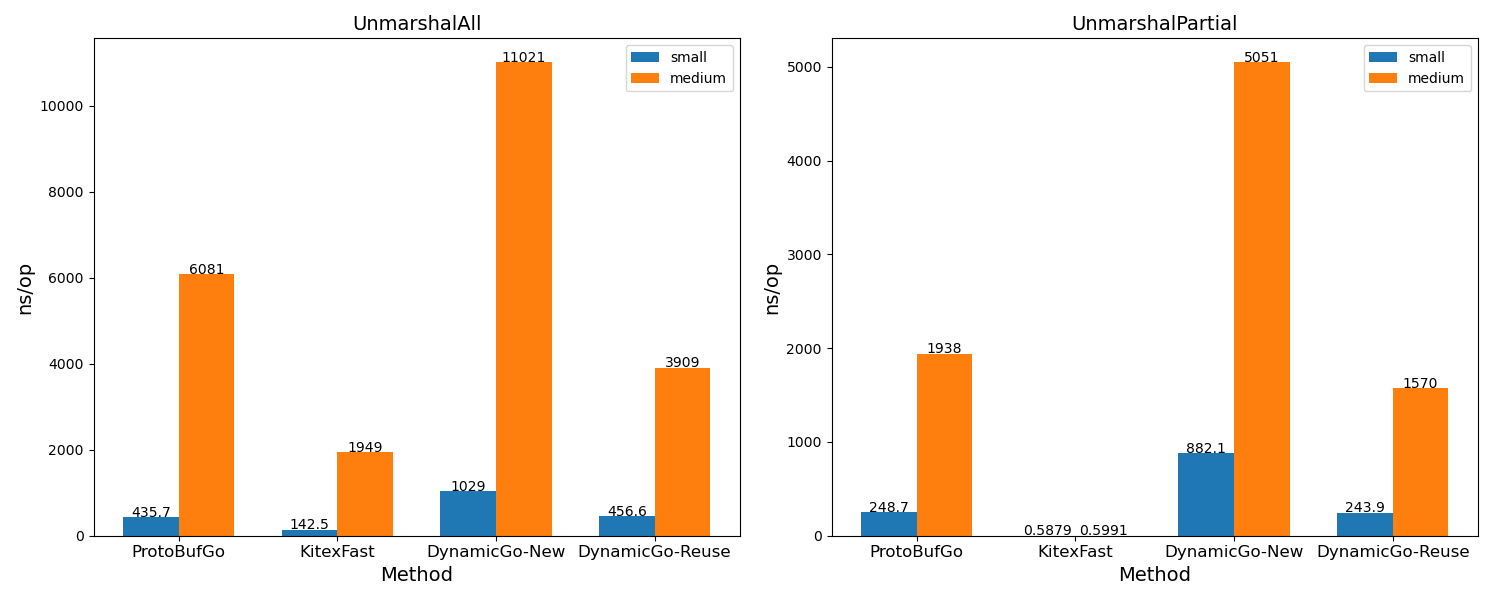
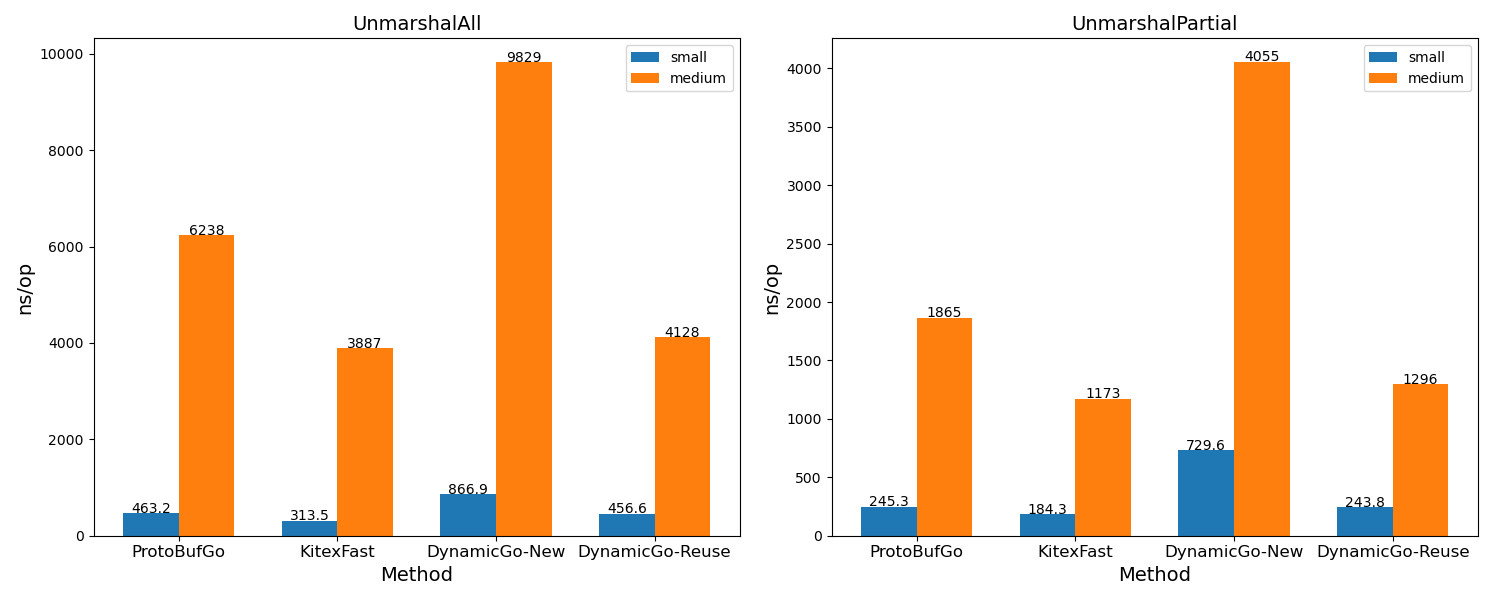
docs(proto): update README and INTRODUCTION

diff --git a/proto/idl.go b/proto/idl.go
@@ -13,7 +13,6 @@ const (
 	Response
 	Exception
 )
-var com = protocompile.Compiler{}
 
 // ParseTarget indicates the target to parse
 type ParseTarget uint8

diff --git a/proto/README.md b/proto/README.md
@@ -6,13 +6,9 @@
 import "github.com/cloudwego/dynamicgo/proto"
 ```
 
-## Introduction
-**DynamicGo For Protobuf Protocol：**[INTRODUCTION.md](./INTRODUCTION.md)
-
 ## Index
 
 - [proto](#proto)
-  - [Introduction](#introduction)
   - [Index](#index)
   - [Variables](#variables)
   - [type Descriptor](#type-descriptor)
@@ -28,16 +24,19 @@ import "github.com/cloudwego/dynamicgo/proto"
   - [type FileDescriptor](#type-filedescriptor)
   - [type MessageDescriptor](#type-messagedescriptor)
     - [func FnRequest](#func-fnrequest)
+    - [func FnResponse](#func-fnresponse)
   - [type MethodDescriptor](#type-methoddescriptor)
     - [func GetFnDescFromFile](#func-getfndescfromfile)
   - [type Number](#type-number)
   - [type OneofDescriptor](#type-oneofdescriptor)
   - [type Options](#type-options)
     - [func NewDefaultOptions](#func-newdefaultoptions)
+    - [func (Options) NewDesccriptorFromContent](#func-options-newdesccriptorfromcontent)
     - [func (Options) NewDescriptorFromPath](#func-options-newdescriptorfrompath)
   - [type ParseTarget](#type-parsetarget)
   - [type ProtoKind](#type-protokind)
   - [type ServiceDescriptor](#type-servicedescriptor)
+    - [func NewDescritorFromContent](#func-newdescritorfromcontent)
     - [func NewDescritorFromPath](#func-newdescritorfrompath)
   - [type Type](#type-type)
     - [func FromProtoKindToType](#func-fromprotokindtotype)
@@ -175,7 +174,7 @@ type FieldNumber = Number
 
 
 ```go
-type FileDescriptor = protoreflect.FieldDescriptor
+type FileDescriptor = protoreflect.FileDescriptor
 ```
 
 <a name="MessageDescriptor"></a>
@@ -194,7 +193,16 @@ type MessageDescriptor = protoreflect.MessageDescriptor
 func FnRequest(fn *MethodDescriptor) *MessageDescriptor
 ```
 
-FnRequest get the normal request type
+FnRequest get the normal requestDescriptor
+
+<a name="FnResponse"></a>
+### func [FnResponse](<https://github.com/khan-yin/dynamicgo/blob/main/proto/test_util.go#L35>)
+
+```go
+func FnResponse(fn *MethodDescriptor) *MessageDescriptor
+```
+
+FnResponse get hte normal responseDescriptor
 
 <a name="MethodDescriptor"></a>
 ## type [MethodDescriptor](<https://github.com/khan-yin/dynamicgo/blob/main/proto/descriptor.go#L13>)
@@ -209,7 +217,7 @@ type MethodDescriptor = protoreflect.MethodDescriptor
 ### func [GetFnDescFromFile](<https://github.com/khan-yin/dynamicgo/blob/main/proto/test_util.go#L13>)
 
 ```go
-func GetFnDescFromFile(filePath, fnName string, opts Options) *MethodDescriptor
+func GetFnDescFromFile(filePath, fnName string, opts Options, includeDirs ...string) *MethodDescriptor
 ```
 
 GetFnDescFromFile get a fucntion descriptor from idl path (relative to your git root) and the function name
@@ -245,7 +253,7 @@ type OneofDescriptor = protoreflect.OneofDescriptor
 ```
 
 <a name="Options"></a>
-## type [Options](<https://github.com/khan-yin/dynamicgo/blob/main/proto/idl.go#L23-L40>)
+## type [Options](<https://github.com/khan-yin/dynamicgo/blob/main/proto/idl.go#L21-L38>)
 
 Options is options for parsing thrift IDL.
 
@@ -271,7 +279,7 @@ type Options struct {
 ```
 
 <a name="NewDefaultOptions"></a>
-### func [NewDefaultOptions](<https://github.com/khan-yin/dynamicgo/blob/main/proto/idl.go#L43>)
+### func [NewDefaultOptions](<https://github.com/khan-yin/dynamicgo/blob/main/proto/idl.go#L41>)
 
 ```go
 func NewDefaultOptions() Options
@@ -279,8 +287,17 @@ func NewDefaultOptions() Options
 
 NewDefaultOptions creates a default Options.
 
+<a name="Options.NewDesccriptorFromContent"></a>
+### func (Options) [NewDesccriptorFromContent](<https://github.com/khan-yin/dynamicgo/blob/main/proto/idl.go#L82>)
+
+```go
+func (opts Options) NewDesccriptorFromContent(ctx context.Context, path, content string, includes map[string]string, importDirs ...string) (*ServiceDescriptor, error)
+```
+
+
+
 <a name="Options.NewDescriptorFromPath"></a>
-### func (Options) [NewDescriptorFromPath](<https://github.com/khan-yin/dynamicgo/blob/main/proto/idl.go#L54>)
+### func (Options) [NewDescriptorFromPath](<https://github.com/khan-yin/dynamicgo/blob/main/proto/idl.go#L52>)
 
 ```go
 func (opts Options) NewDescriptorFromPath(ctx context.Context, path string, importDirs ...string) (*ServiceDescriptor, error)
@@ -289,7 +306,7 @@ func (opts Options) NewDescriptorFromPath(ctx context.Context, path string, impo
 NewDescritorFromContent creates a ServiceDescriptor from a proto path and its imports, which uses the given options. The importDirs is used to find the include files.
 
 <a name="ParseTarget"></a>
-## type [ParseTarget](<https://github.com/khan-yin/dynamicgo/blob/main/proto/idl.go#L20>)
+## type [ParseTarget](<https://github.com/khan-yin/dynamicgo/blob/main/proto/idl.go#L18>)
 
 ParseTarget indicates the target to parse
 
@@ -350,8 +367,17 @@ const (
 type ServiceDescriptor = protoreflect.ServiceDescriptor
 ```
 
+<a name="NewDescritorFromContent"></a>
+### func [NewDescritorFromContent](<https://github.com/khan-yin/dynamicgo/blob/main/proto/idl.go#L78>)
+
+```go
+func NewDescritorFromContent(ctx context.Context, path, content string, includes map[string]string, importDirs ...string) (*ServiceDescriptor, error)
+```
+
+NewDescritorFromContent behaviors like NewDescritorFromPath, besides it uses DefaultOptions.
+
 <a name="NewDescritorFromPath"></a>
-### func [NewDescritorFromPath](<https://github.com/khan-yin/dynamicgo/blob/main/proto/idl.go#L48>)
+### func [NewDescritorFromPath](<https://github.com/khan-yin/dynamicgo/blob/main/proto/idl.go#L46>)
 
 ```go
 func NewDescritorFromPath(ctx context.Context, path string, importDirs ...string) (*ServiceDescriptor, error)

diff --git a/proto/INTRODUCTION.md b/proto/INTRODUCTION.md
@@ -274,8 +274,8 @@ JSON——>ProtoBuf 的转换过程如下：
 ![](../image/intro-17.png)
 
 ### 字段Get/Set定量测试
-- 代码：[dynamicgo/testdata/baseline_pg_test.go#BenchmarkRationGet_DynamicGo](../testdata/baseline_pg_test.go#L1516)
-- [factor](../testdata/baseline_pg_test.go#L1472)用于修改从上到下扫描proto文件字段获取比率。
+- 代码：[dynamicgo/testdata/baseline_pg_test.go#BenchmarkRationGet_DynamicGo](../testdata/baseline_pg_test.go#L1600)
+- [factor](../testdata/baseline_pg_test.go#L1557)用于修改从上到下扫描proto文件字段获取比率。
 - 定量测试比较方法是protobufGo的dynamicpb模块和DynamicGo的Get/SetByPath，SetMany，测试对象是medium data的情况。
 - Set/Get字段定量测试结果均优于ProtobufGo，且在获取字段越稀疏的情况下性能加速越明显，因为protobuf源码不论获取多少比率的字段，都需要完整序列化全体对象，而dynamicgo则是直接解析buf完成copy。
 - setmany性能加速更明显，在100%字段下ns/op开销约为0.19。
@@ -283,9 +283,9 @@ JSON——>ProtoBuf 的转换过程如下：
 ![](../image/intro-18.png)
 
 ### 序列化/反序列化
-- 代码：[dynamicgo/testdata/baseline_pg_test.go#BenchmarkProtoMarshalAll_DynamicGo](../testdata/baseline_pg_test.go#L1121)
+- 代码：[dynamicgo/testdata/baseline_pg_test.go#BenchmarkProtoMarshalAll_DynamicGo](../testdata/baseline_pg_test.go#L1206)
 - 序列化在medium规模的数据上性能优势更明显，small规模略高于protobufGo，ns/op开销约为源码的0.50~1.52。
-- 反序列化在reuse模式下，small模式与protobufGo基本性能相同，在medium规模数据上性能优势更明显，ns/op开销约为源码的0.61 ~ 0.64，随数据规模增大性能优势增加。
+- 反序列化在reuse模式下，small模式与protobufGo基本性能相同，在medium规模数据上性能优势更明显，ns/op开销约为源码的0.66 ~ 0.69，随数据规模增大性能优势增加。
 ![](../image/intro-19.png)
 ![](../image/intro-20.png)
 
